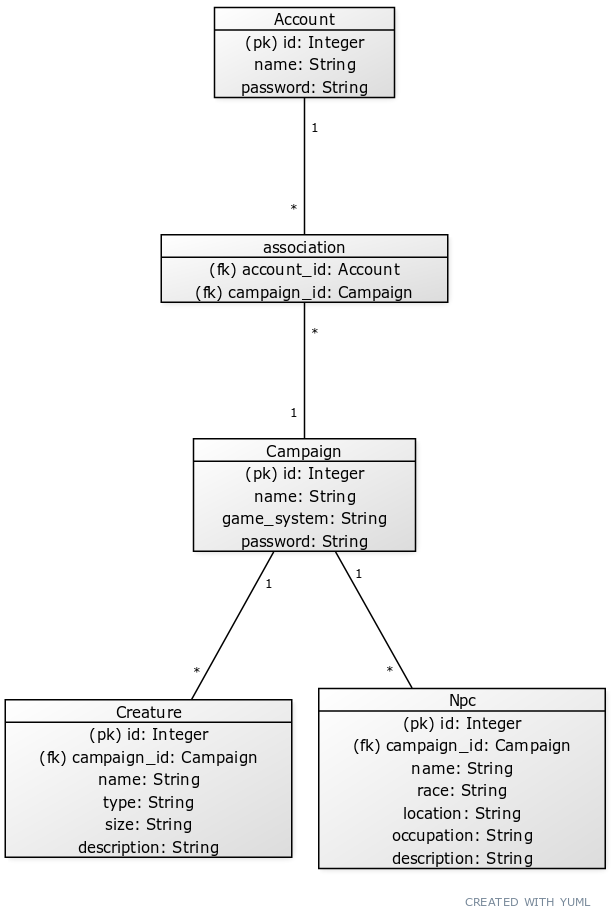
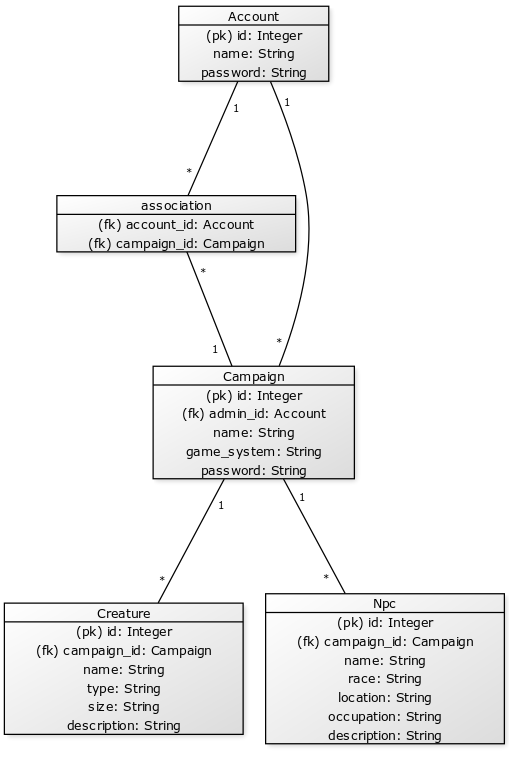
Update readme

diff --git a/application/auth/models.py b/application/auth/models.py
@@ -26,6 +26,5 @@ class Account(NameBase):
 
     @staticmethod
     def number_of_joined_campaigns(account_id):
-        stmt = text("SELECT COUNT(campaign.id) FROM Campaign INNER JOIN association ON campaign.id = association.campaign_id " 
-        "INNER JOIN Account ON association.account_id = account.id WHERE account.id = :account_id").params(account_id=account_id)
+        stmt = text("SELECT COUNT(campaign.id) FROM Campaign INNER JOIN association ON campaign.id = association.campaign_id AND association.account_id = :account_id").params(account_id=account_id)
         return db.engine.execute(stmt).scalar()

diff --git a/README.md b/README.md
@@ -1,8 +1,18 @@
 # Vicipaedia Arcanum - Tietosanakirja pöytäroolipeleille
 
+Sisällysluettelo:
+* [Kuvaus](#kuvaus)
+* [Tietokanta](#tietokanta)
+* [Käyttötapaukset ja niihin liittyvät kyselyt](#käyttötapaukset-ja-niihin-liittyvät-kyselyt)
+* [Asennusohje](#asennusohje)
+* [Käyttöohje](#käyttöohje)
+* [Rajoitteet/jatkokehitysideat](#rajoitteet/jatkokehitysideat)
+
+## Kuvaus
+
 Vicipaedia Arcanum (tästä lähtien *VA*) on nettipalvelimella toimiva tietosanakirja pöytäroolipeleille. *VA*:ssa käyttäjä voi luoda omalle pelilleen kampanjan, liittyä muiden luomiin kampanjoihin, ja päivittää kampanjaan liittyvää tietokantaa hirviöistä ja NPC:istä (non-player character).
 
-Kun kampanja luodaan, se voidaan suojata salasanalla, jotta vain tietyt käyttäjät voivat liittyä siihen. Kampanjaan liittyneet käyttäjät voivat vapaasti lisätä ja muokata kampanjan sisällä olevia entiteettejä. Kampanjan luojalla on kampanjassa admin-oikeudet, eli hän voi poistaa muita käyttäjiä kampanjasta ja halutessaan myös poistaa koko kampanjan.
+Kun kampanja luodaan, se voidaan suojata salasanalla, jotta vain tietyt käyttäjät voivat liittyä siihen. Kampanjaan liittyneet käyttäjät voivat vapaasti lisätä ja muokata kampanjan sisällä olevia entiteettejä. Kampanjan luojalla on kampanjassa admin-oikeudet, eli hän voi poistaa muita käyttäjiä kampanjasta, vaihtaa kampanjan salasanan, ja poistaa koko kampanjan.
 
 Tällä hetkellä *VA*:ssa voit:
 
@@ -13,15 +23,116 @@ Tällä hetkellä *VA*:ssa voit:
 * katsoa kampanjan hirviö- ja NPC-listoja
 * lisätä, muokata ja poistaa hirviöitä ja NPC:itä
 * (kampanjan luojana) poistaa henkilöitä kampanjasta
+* (kampanjan luojana) vaihtaa kampanjan salasanan
 * (kampanjan luojana) poistaa kampanjan
 
 [Linkki Heroku-pilvipalvelimella pyörivään sovellukseen](https://vicipaedia-arcanum.herokuapp.com/)
 
-## [User storyt](https://github.com/tire95/Vicipaedia-Arcanum/tree/master/documentation/user_stories.md)
-
-## Tietokantakaavio
+## Tietokanta
 
 ![kaavio](/documentation/Pictures/DBDiagram.png)
+
+CREATE TABLE -lauseet:
+
+    CREATE TABLE account (
+            id INTEGER NOT NULL,
+            date_created DATETIME,
+            date_modified DATETIME,
+            name VARCHAR(144) NOT NULL,
+            password VARCHAR(144) NOT NULL,
+            PRIMARY KEY (id)
+    );
+    CREATE TABLE campaign (
+            id INTEGER NOT NULL,
+            date_created DATETIME,
+            date_modified DATETIME,
+            name VARCHAR(144) NOT NULL,
+            game_system VARCHAR(144) NOT NULL,
+            password VARCHAR(144),
+            admin_id INTEGER NOT NULL,
+            PRIMARY KEY (id),
+            FOREIGN KEY(admin_id) REFERENCES account (id)
+    );
+    CREATE TABLE creature (
+            id INTEGER NOT NULL,
+            date_created DATETIME,
+            date_modified DATETIME,
+            name VARCHAR(144) NOT NULL,
+            type VARCHAR(144) NOT NULL,
+            size VARCHAR(144) NOT NULL,
+            description VARCHAR(1000),
+            campaign_id INTEGER NOT NULL,
+            PRIMARY KEY (id),
+            FOREIGN KEY(campaign_id) REFERENCES campaign (id) ON DELETE CASCADE
+    );
+    CREATE TABLE association (
+            account_id INTEGER,
+            campaign_id INTEGER,
+            FOREIGN KEY(account_id) REFERENCES account (id),
+            FOREIGN KEY(campaign_id) REFERENCES campaign (id)
+    );
+    CREATE TABLE npc (
+            id INTEGER NOT NULL,
+            date_created DATETIME,
+            date_modified DATETIME,
+            name VARCHAR(144) NOT NULL,
+            race VARCHAR(144) NOT NULL,
+            location VARCHAR(144) NOT NULL,
+            occupation VARCHAR(144) NOT NULL,
+            description VARCHAR(1000),
+            campaign_id INTEGER NOT NULL,
+            PRIMARY KEY (id),
+            FOREIGN KEY(campaign_id) REFERENCES campaign (id) ON DELETE CASCADE
+    );
+
+
+## Käyttötapaukset ja niihin liittyvät kyselyt
+
+1. "Haluan suojata luomani kampanjan salasanalla, jotta vain haluamani henkilöt voivat liittyä siihen."
+
+Tarkistetaan, onko kyseisellä nimellä kampanjaa:
+
+        SELECT * FROM campaign WHERE name LIKE "%name%";
+
+Kampanjan luominen, jos kyseisellä nimellä ei ole kampanjaa:
+
+        INSERT INTO campaign (date_created, date_modified, name, game_system, password) VALUES (current_date, current_date, name, game_system, password);
+
+2. "Opimme jotain uutta Beholderista, mutta Beholder on jo lisätty kampanjamme listaan. Tämän vuoksi haluan, että hirviöiden tietoja voi muokata helposti."
+
+Tarkistetaan, onko uudella nimellä hirviötä (tai NPC:tä):
+
+        SELECT * FROM creature WHERE name LIKE "%name%" AND creature.campaign_id = campaign_id;
+
+Hirviön (tai NPC:n) muuttaminen:
+
+        UPDATE creature SET date_modified = current_date, name = new_name, type = new_type, size = new_size, description = new_description WHERE id = id;
+
+3. "Pelaan useammassa kampanjassa, minkä vuoksi haluan pystyä liittymään useampaan kampanjaan palvelussa."
+
+Uuden liitoksen luominen liitostauluun:
+
+        INSERT INTO association (account_id, campaign_id) VALUES (current_user_id, campaign_id);
+
+4. "Haluan pitää eri kampanjoissa oppimani tiedot erillään toisistaan, koska kampanjoiden hirviöt voivat poiketa toisistaan paljonkin."
+
+Tiettyyn kampanjaan liittyvien NPC:iden (tai hirviöiden) hakeminen:
+
+        SELECT * FROM npc WHERE npc.campaign_id = campaign_id;
+
+5. "Haluan helposti nähdä kampanjat, joihin olen jo liittynyt."
+
+Kampanjat, joihin käyttäjä on liittynyt, sekä näiden lukumäärä:
+
+        SELECT * FROM campaign INNER JOIN association ON campaign.id = association.campaign_id AND association.account_id = current_user_id;
+
+        SELECT COUNT(campaign.id) FROM campaign INNER JOIN association ON campaign.id = association.campaign_id AND association.account_id = current_user_id;
+
+6. "Kaverini loi kampanjan palveluun. Haluan, että kampanjan voi etsiä nimellä ja, jotta kampanjaan liittyminen olisi helppoa ja nopeaa."
+
+7. "Kohtasin pelissä zombien näköisen otuksen, mutta en ole varma, oliko kyseessä zombie. Tämän vuoksi haluan, että palvelussa voi etsiä hirviöitä nimen ja tyypin perusteella."
+
+Kohtien 6 ja 7 toiminnallisuus on toteutettu front endissä.
 
 ## Asennusohje
 
@@ -29,6 +140,7 @@ Tällä hetkellä *VA*:ssa voit:
 2. Aktivoi kansiossa `/Vicipaedia-Arcanum/venv/Scripts` oleva tiedosto `activate.bat`
 3. Navigoi terminaalissa projektin juurikansioon ja syötä komento `pip install -r requirements.txt`; näin pip asentaa tarvittavat kirjastot
 4. Käynnistä sovellus suorittamalla tiedosto `run.py`. Sovellus pyörii nyt lokaalisti koneellasi
+5. Halutessasi sovellus on valmis siirrettäväksi pilveen. Tiedostossa `__init__.py` voit muokata, mitä tietokannanhallintajärjestelmää käytetään
 
 ## Käyttöohje
 
@@ -43,14 +155,14 @@ Sovelluksessa on jokaisessa input-kentässä ohjeet oikeanlaiselle syötteelle, 
 
 ### Kampanjan luominen
 
-1. Kirjauduttuasi sisään avautuu näkymä sovelluksessa olevista kampanjoista. Sivun yläosassa on listattuna kaikki kampanjat, joihin olet liittynyt. Tämän alapuolella näkyy lista kaikista kampanjoista, joihin et ole liittynyt
+1. Kirjauduttuasi sisään avautuu näkymä kampanjoista, joihin olet liittynyt
 2. Luodaksesi uuden kampanjan paina ylävalikossa olevaa vaihtoehtoa "Create a campaign"
 3. Syötä tarvittavat tiedot ja paina nappia "Create a new campaign"
 4. Uusi kampanja on luotu, ja olet sen admin
 
 ### Kampanjaan liittyminen
 
-1. Kirjauduttuasi sisään sivun alaosassa olevassa taulukossa näkyy lista kampanjoista, joihin et ole liittynyt
+1. Kirjauduttuasi sisään sivun yläosassa on linkki "Click here for more campaigns." Tätä painamalla pääsee listaan, jossa näkyy kaikki kampanjat, joihin et ole liittynyt
 2. Etsi kampanjaa nimen tai pelisysteemin perusteella taulukon oikeassa yläkulmassa olevalla hakukentällä
 3. Paina nappia "Join campaign"
 4. a) Jos kampanjalla ei ole salasanaa, olet automaattisesti rekisteröitynyt kampanjaan
@@ -73,4 +185,12 @@ Sovelluksessa on jokaisessa input-kentässä ohjeet oikeanlaiselle syötteelle, 
 
 1. Kampanjan adminina, kun avaat kampanjan, ylhäällä on nappi "Manage campaign"
 2. Painamalla nappia pääset näkymään, jossa voit poistaa muita käyttäjiä kampanjasta painamalla nappia "Remove account from campaign"
-3. Painamalla "Delete campaign" avautuu näkymä, jossa pyydetään kampanjan nimeä ja salasanaa. Syötä nämä ja paina nappia "Delete campaign"
+3. Painamalla "Change password" pääset näkymään, jossa voit vaihtaa kampanjan salasanaa. Syötä tarvittavat tiedot ja paina nappia "Change password"
+4. Painamalla "Delete campaign" avautuu näkymä, jossa pyydetään kampanjan nimeä ja salasanaa. Syötä nämä ja paina nappia "Delete campaign"
+
+## Rajoitteet/jatkokehitysideat
+
+1. Käyttäjä ei tällä hetkellä voi vaihtaa salasanaansa
+2. Käyttäjä ei voi palauttaa unohtamaansa salasanaa
+3. Palvelussa ei ole yleistä admin-käyttäjää, joka voisi poistaa muita käyttäjiä
+4. Kampanjan tietoja ei voi muuttaa
